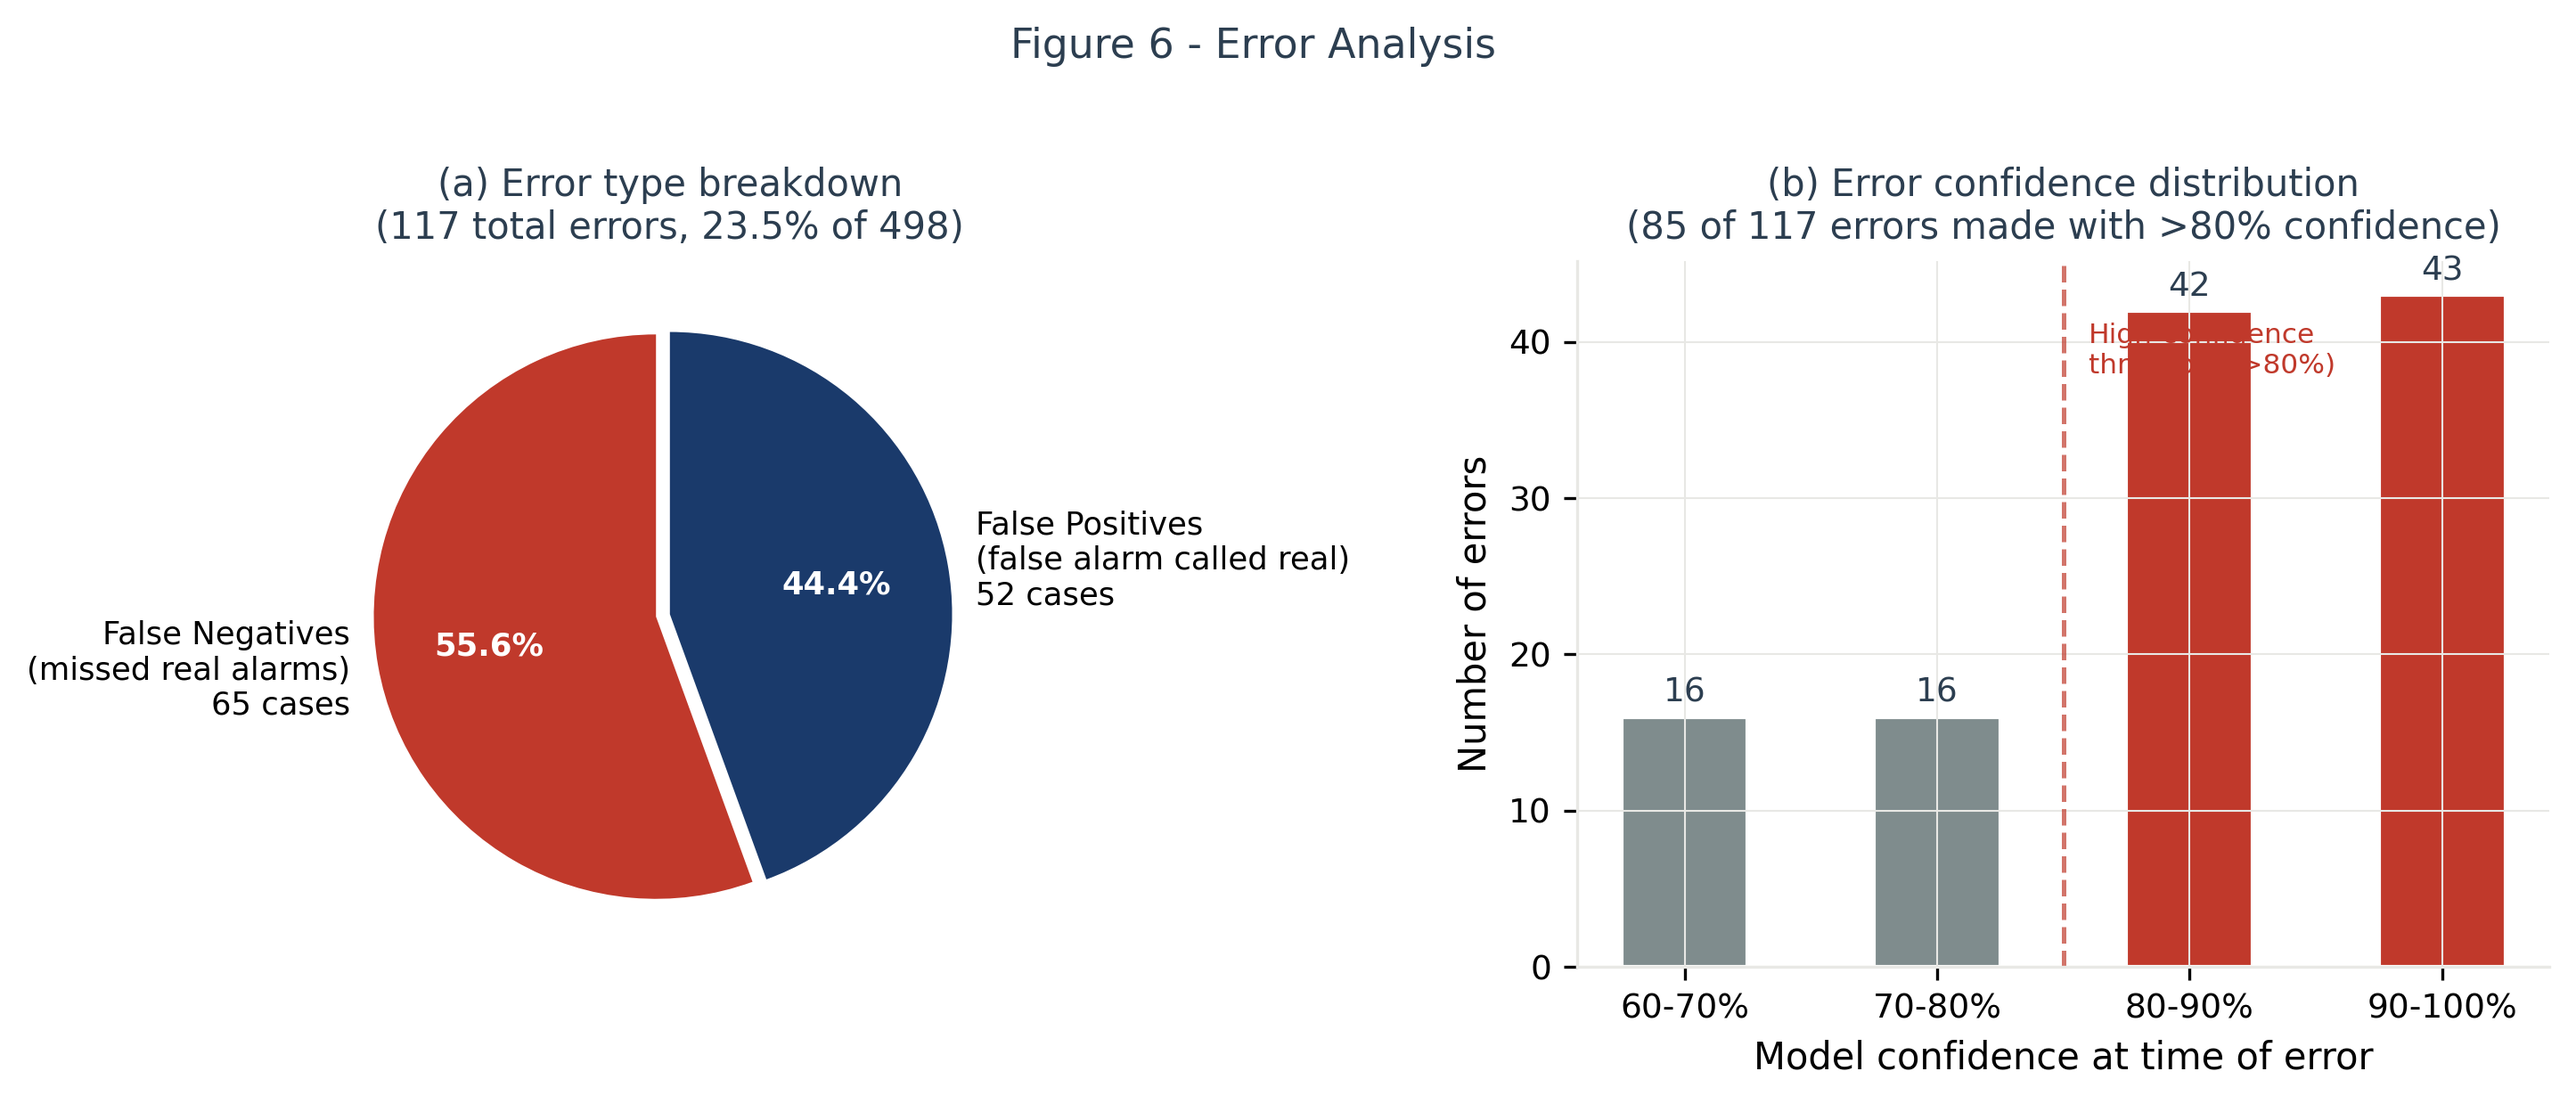
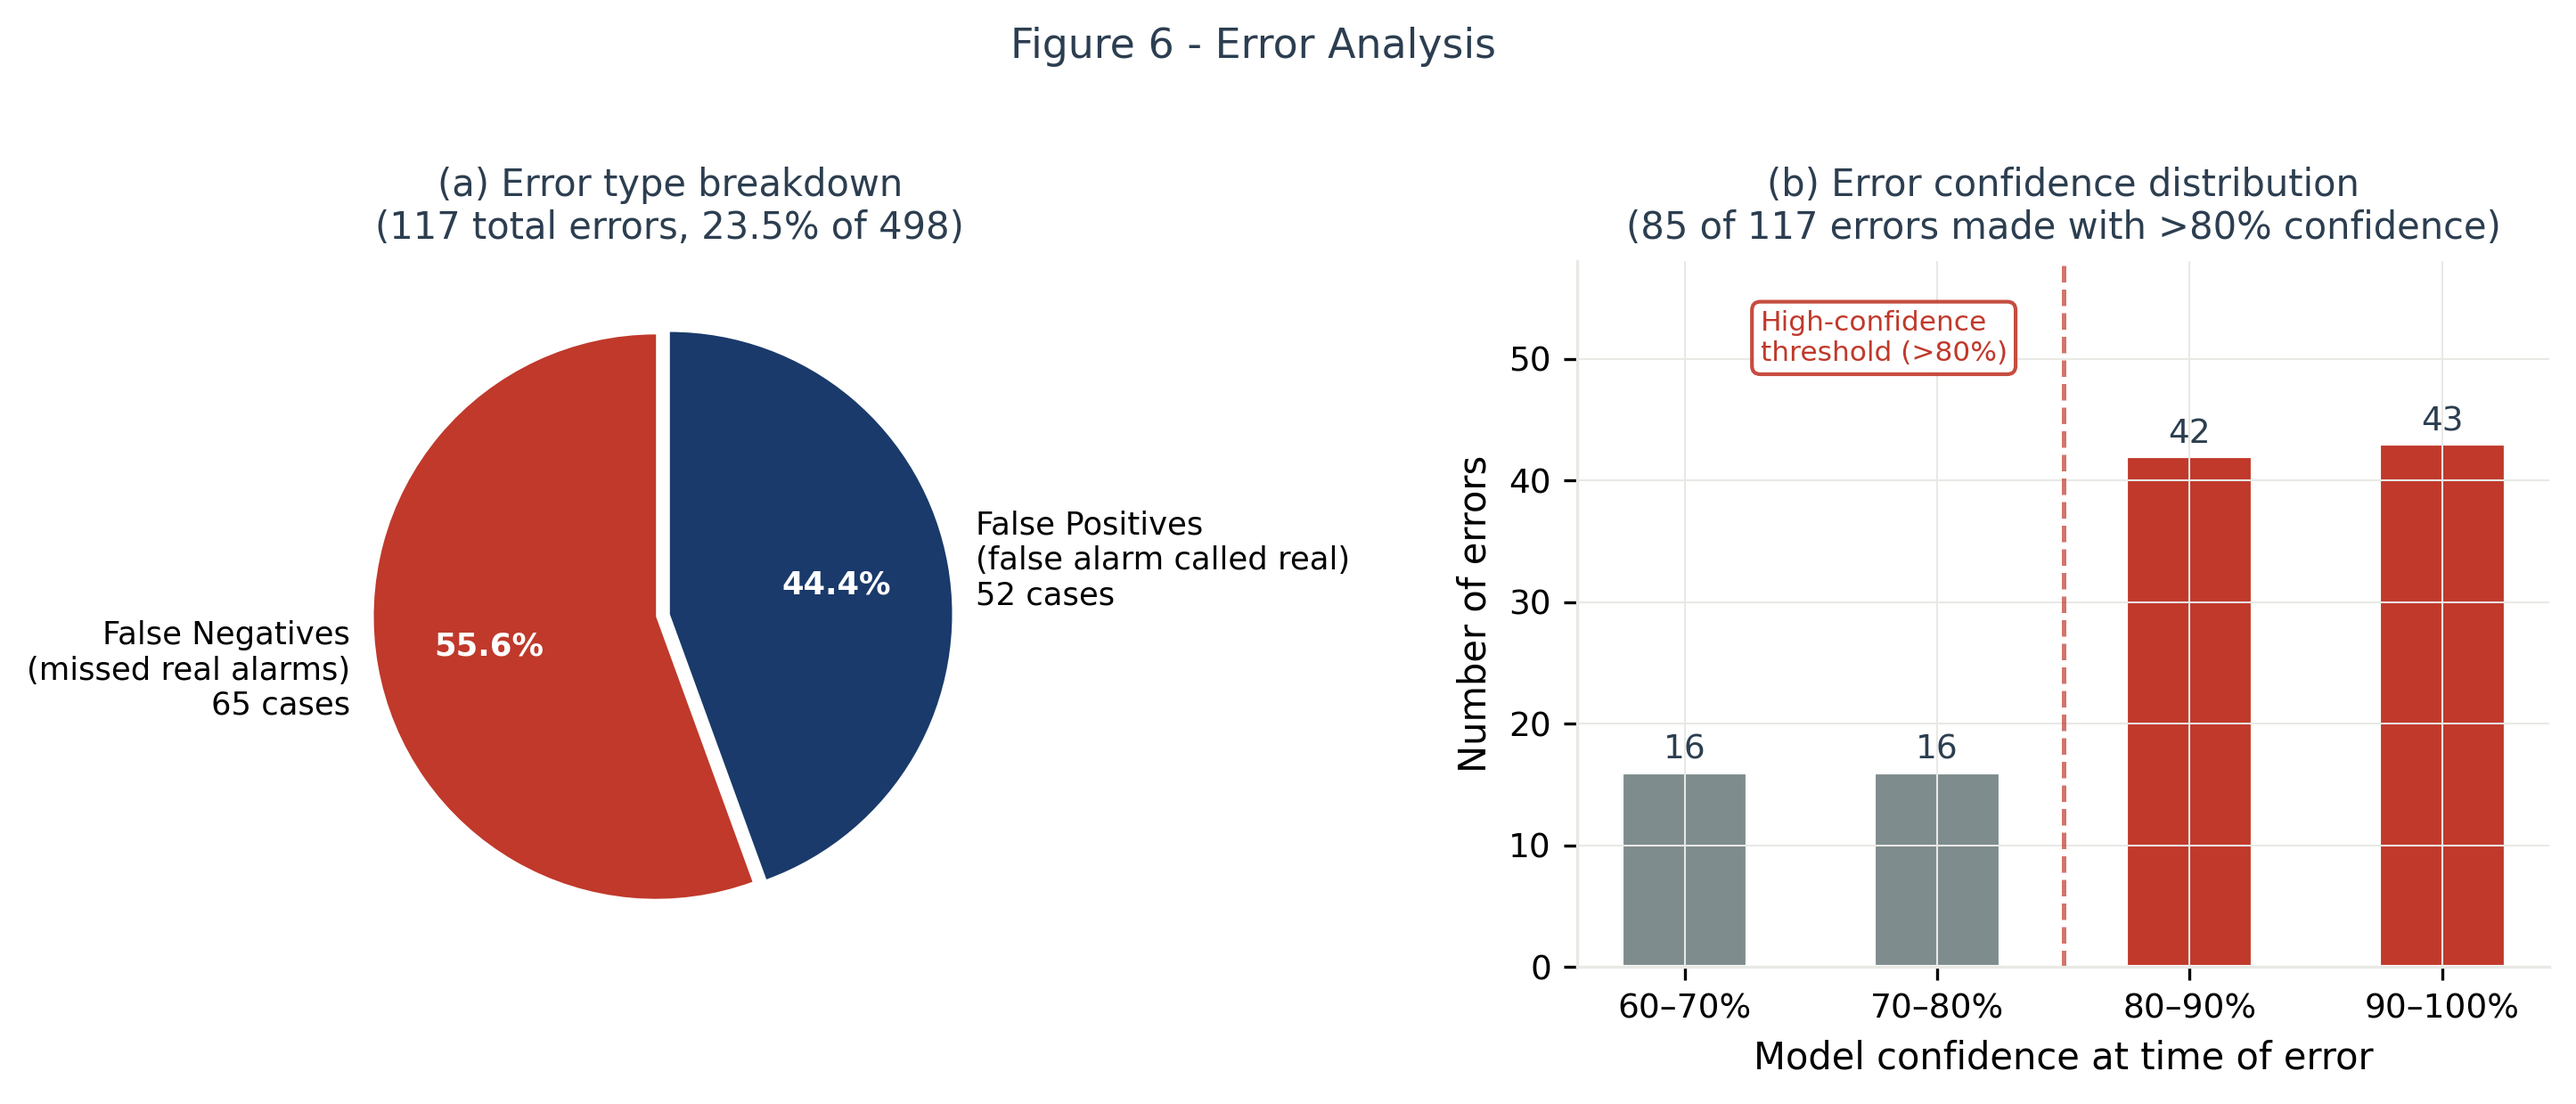
regenerate fig6 error analysis : fixed text overlap on confidence bar chart

diff --git a/ml/generate_paper_figures.py b/ml/generate_paper_figures.py
@@ -365,7 +365,7 @@ def fig_error_analysis():
                   fontsize=10, color=CHARCOAL)
 
     # Bar: confidence distribution of errors
-    conf_bins  = ["60-70%", "70-80%", "80-90%", "90-100%"]
+    conf_bins  = ["60–70%", "70–80%", "80–90%", "90–100%"]
     # Approximate from the high_conf_errors=85 at >80%
     # Total 117 errors: 32 below 80%, 85 above 80%
     conf_counts = [16, 16, 42, 43]
@@ -380,15 +380,21 @@ def fig_error_analysis():
                  fontsize=9, color=CHARCOAL)
 
     ax2.axvline(x=1.5, color=RED, linestyle="--",
-                linewidth=1.2, alpha=0.7)
-    ax2.text(1.6, 38, "High-confidence\nthreshold (>80%)",
-             color=RED, fontsize=7.5)
+            linewidth=1.2, alpha=0.7)
+    ax2.text(0.3, 54,
+            "High-confidence\nthreshold (>80%)",
+            color=RED, fontsize=7.5, va="top",
+            bbox=dict(boxstyle="round,pad=0.3",
+                    facecolor=WHITE,
+                    edgecolor=RED,
+                    alpha=0.9))
 
     ax2.set_xlabel("Model confidence at time of error")
     ax2.set_ylabel("Number of errors")
+    ax2.set_ylim(0, 58)
     ax2.set_title("(b) Error confidence distribution\n"
-                  "(85 of 117 errors made with >80% confidence)",
-                  fontsize=10, color=CHARCOAL)
+                "(85 of 117 errors made with >80% confidence)",
+                fontsize=10, color=CHARCOAL)
 
     fig.suptitle("Figure 6 - Error Analysis",
                  fontsize=11, color=CHARCOAL, y=1.02)
